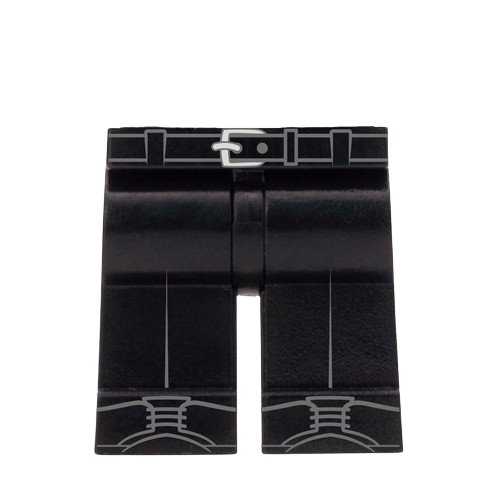
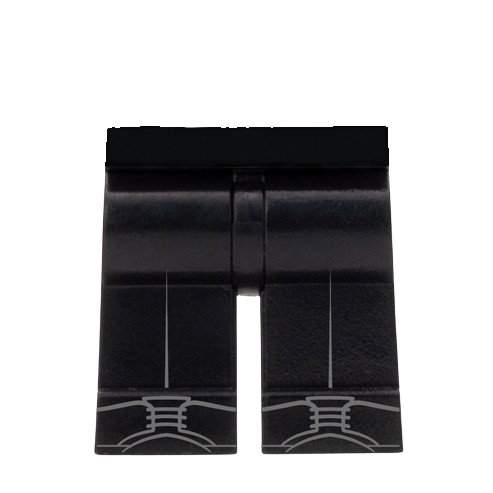
Creador terminado

Changed region(s): [[0.213, 0.2434, 0.7911, 0.3651]]

diff --git a/legoCreator.html b/legoCreator.html
@@ -32,6 +32,7 @@
             padding: 0;
             margin: 0;
             width: 80px;
+            background-color: rgb(0,0,0,0.1);
             border-radius: 5px;
             border: black;
             border: solid;" onclick="document.getElementById('gorro1').innerHTML = 
@@ -51,7 +52,6 @@
             margin: 0;
             width: 80px;
             border-radius: 5px;
-            background-color: rgb(0,0,0,0.1);
             border: black;
             border: solid;" onclick="document.getElementById('gorro1').innerHTML = 
             '<img src=\'assets/legoCreator/barbaGorroSanta.png\' style=\'width: 170px;\'>'; 
@@ -110,6 +110,7 @@
           padding: 0;
           margin: 0;
           width: 80px;
+          background-color: rgb(0,0,0,0.1);
           border-radius: 5px;
           border: black;
           border: solid;" onclick="document.getElementById('cabeza').innerHTML = 
@@ -124,7 +125,6 @@
           padding: 0;
           margin: 0;
           width: 80px;
-          background-color: rgb(0,0,0,0.1);
           border-radius: 5px;
           border: black;
           border: solid;" onclick="document.getElementById('cabeza').innerHTML = 
@@ -175,9 +175,11 @@
           margin: 0;
           width: 80px;
           border-radius: 5px;
+          background-color: rgb(0,0,0,0.1);
           border: black;
           border: solid;" onclick="document.getElementById('cuerpo').innerHTML = 
           '<img src=\'assets/legoCreator/camisetaBasica.png\' style=\'width: 170px;\'>';
+          document.getElementById('manos').style.display='block';
           document.getElementById('selectorCamiseta2').style.backgroundColor='rgb(0,0,0,0)';
           document.getElementById('selectorCamiseta3').style.backgroundColor='rgb(0,0,0,0)';
           document.getElementById('selectorCamiseta4').style.backgroundColor='rgb(0,0,0,0)';
@@ -190,10 +192,10 @@
             margin: 0;
             width: 80px;
             border-radius: 5px;
-            background-color: rgb(0,0,0,0.1);
             border: black;
             border: solid;" onclick="document.getElementById('cuerpo').innerHTML = 
           '<img src=\'assets/legoCreator/camisetaSanta.png\' style=\'width: 170px;\'>';
+          document.getElementById('manos').style.display='block';
           document.getElementById('selectorCamiseta1').style.backgroundColor='rgb(0,0,0,0)';
           document.getElementById('selectorCamiseta3').style.backgroundColor='rgb(0,0,0,0)';
           document.getElementById('selectorCamiseta4').style.backgroundColor='rgb(0,0,0,0)';
@@ -210,6 +212,7 @@
           border: black;
           border: solid;" onclick="document.getElementById('cuerpo').innerHTML = 
           '<img src=\'assets/legoCreator/camisetaElfo.png\' style=\'width: 170px;\'>';
+          document.getElementById('manos').style.display='block';
           document.getElementById('selectorCamiseta1').style.backgroundColor='rgb(0,0,0,0)';
           document.getElementById('selectorCamiseta2').style.backgroundColor='rgb(0,0,0,0)';
           document.getElementById('selectorCamiseta4').style.backgroundColor='rgb(0,0,0,0)';
@@ -225,6 +228,7 @@
           border: black;
           border: solid;" onclick="document.getElementById('cuerpo').innerHTML = 
           '<img src=\'assets/legoCreator/camisetaReno.png\' style=\'width: 170px;\'>';
+          document.getElementById('manos').style.display='none';
           document.getElementById('selectorCamiseta1').style.backgroundColor='rgb(0,0,0,0)';
           document.getElementById('selectorCamiseta2').style.backgroundColor='rgb(0,0,0,0)';
           document.getElementById('selectorCamiseta3').style.backgroundColor='rgb(0,0,0,0)';
@@ -236,16 +240,17 @@
       <tr>
         <!-- Pantalones -->
         <td style="height: 10px;">
-          <img id='selectorPantalones1' src="assets/legoCreator/pantalonesGrises.png" alt="Pantalones Grises"
+          <img id='selectorPantalones1' src="assets/legoCreator/pantalonesMarrones.png" alt="Pantalones Grises"
             draggable="false" style="
             user-select: none;
             padding: 0;
             margin: 0;
             width: 80px;
             border-radius: 5px;
+            background-color: rgb(0,0,0,0.1);
             border: black;
             border: solid;" onclick="document.getElementById('piernas').innerHTML = 
-          '<img src=\'assets/legoCreator/pantalonesGrises.png\' style=\'width: 170px;\'>'; 
+          '<img src=\'assets/legoCreator/pantalonesMarrones.png\' style=\'width: 170px;\'>'; 
           document.getElementById('selectorPantalones2').style.backgroundColor='rgb(0,0,0,0)';
           document.getElementById('selectorPantalones3').style.backgroundColor='rgb(0,0,0,0)';
           document.getElementById('selectorPantalones4').style.backgroundColor='rgb(0,0,0,0)';
@@ -257,7 +262,6 @@
             padding: 0;
             margin: 0;
             width: 80px;
-            background-color: rgb(0,0,0,0.1);
             border-radius: 5px;
             border: black;
             border: solid;" onclick="document.getElementById('piernas').innerHTML = 
@@ -314,7 +318,7 @@
         position: absolute;
         z-index: 900;
         ">
-          <img src="assets/legoCreator/barbaGorroSanta.png" draggable="false" style="width: 170px;">
+          <img src="assets/legoCreator/peloBasico.png" draggable="false" style="width: 170px;">
         </td>
 
         <!-- Gorro Detrás -->
@@ -336,7 +340,7 @@
         position: absolute;
         z-index: 898;
         ">
-          <img src="assets/legoCreator/caraSanta.png" draggable="false" style="width: 170px;">
+          <img src="assets/legoCreator/caraBasica.png" draggable="false" style="width: 170px;">
         </td>
 
         <!-- Cuerpo -->
@@ -347,7 +351,7 @@
         position: absolute;
         z-index: 899;
         ">
-          <img src="assets/legoCreator/camisetaSanta.png" draggable="false" style="width: 170px;">
+          <img src="assets/legoCreator/camisetaBasica.png" draggable="false" style="width: 170px;">
         </td>
 
         <!-- Piernas -->
@@ -358,7 +362,7 @@
         position: absolute;
         z-index: 897;
         ">
-          <img src="assets/legoCreator/pantalonesSanta.png" draggable="false" style="width: 170px;">
+          <img src="assets/legoCreator/pantalonesMarrones.png" draggable="false" style="width: 170px;">
         </td>
 
         <!-- Manos -->
